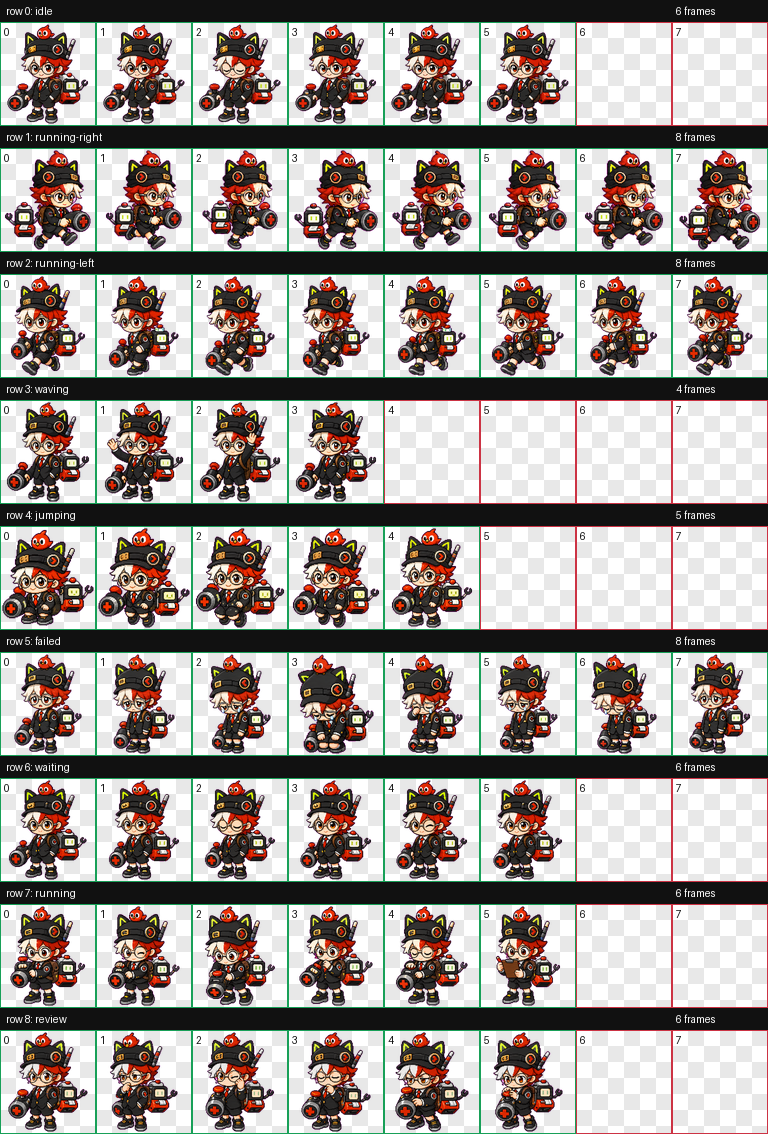
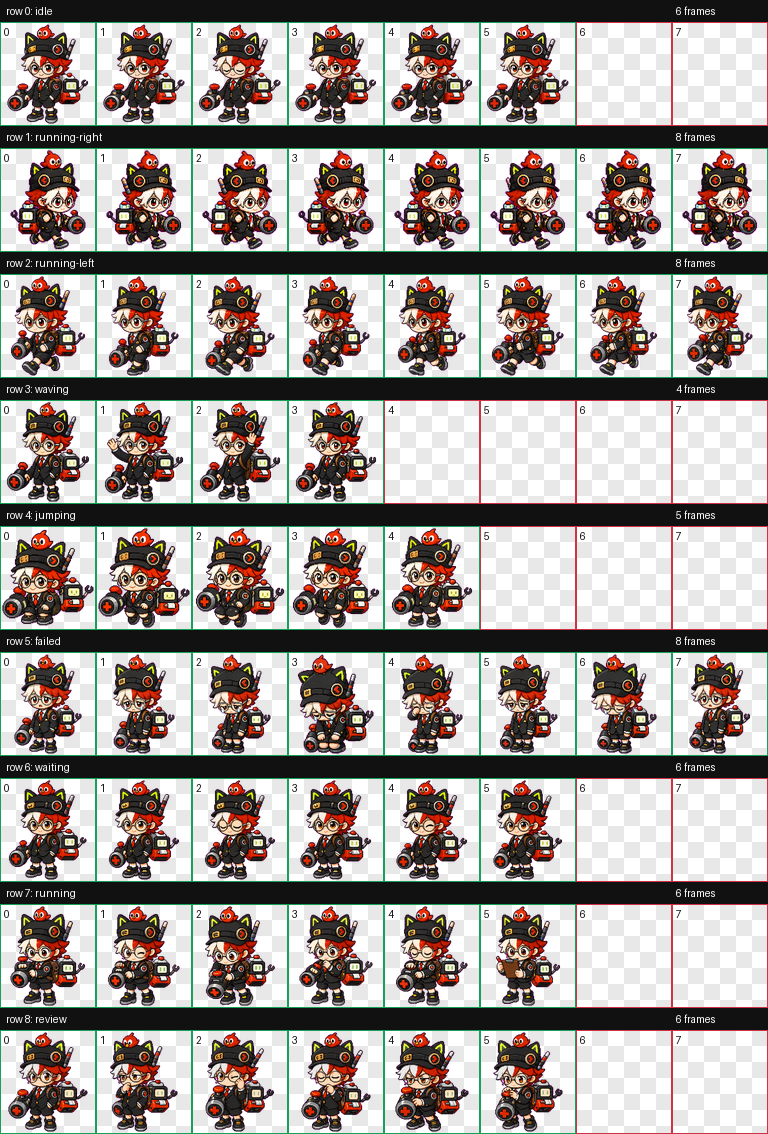
Refine Luban rightward run animation

Changed region(s): [[0.0, 0.1235, 1.0, 0.216]]

diff --git a/docs/generation-notes.md b/docs/generation-notes.md
@@ -23,6 +23,7 @@ Create a Codex-compatible animated pet inspired by Luban No.7's Time Journey ski
 - Base pet was regenerated after color review to lock the corrected split red-and-white front bangs.
 - Row jobs delegated to subagents for grounded animation generation.
 - `running-left` was generated separately instead of mirrored because the pet has asymmetric hair and props.
+- `running-right` was regenerated after review so the motion reads as rightward travel while preserving the viewer-left white bang, viewer-right red bang, and a compact footprint close to the other rows.
 - A `running` candidate with detached yellow marks was rejected and regenerated before final ingestion.
 - Parent workflow recorded all selected imagegen outputs, composed the final atlas, generated QA media, and packaged the Codex pet.
 